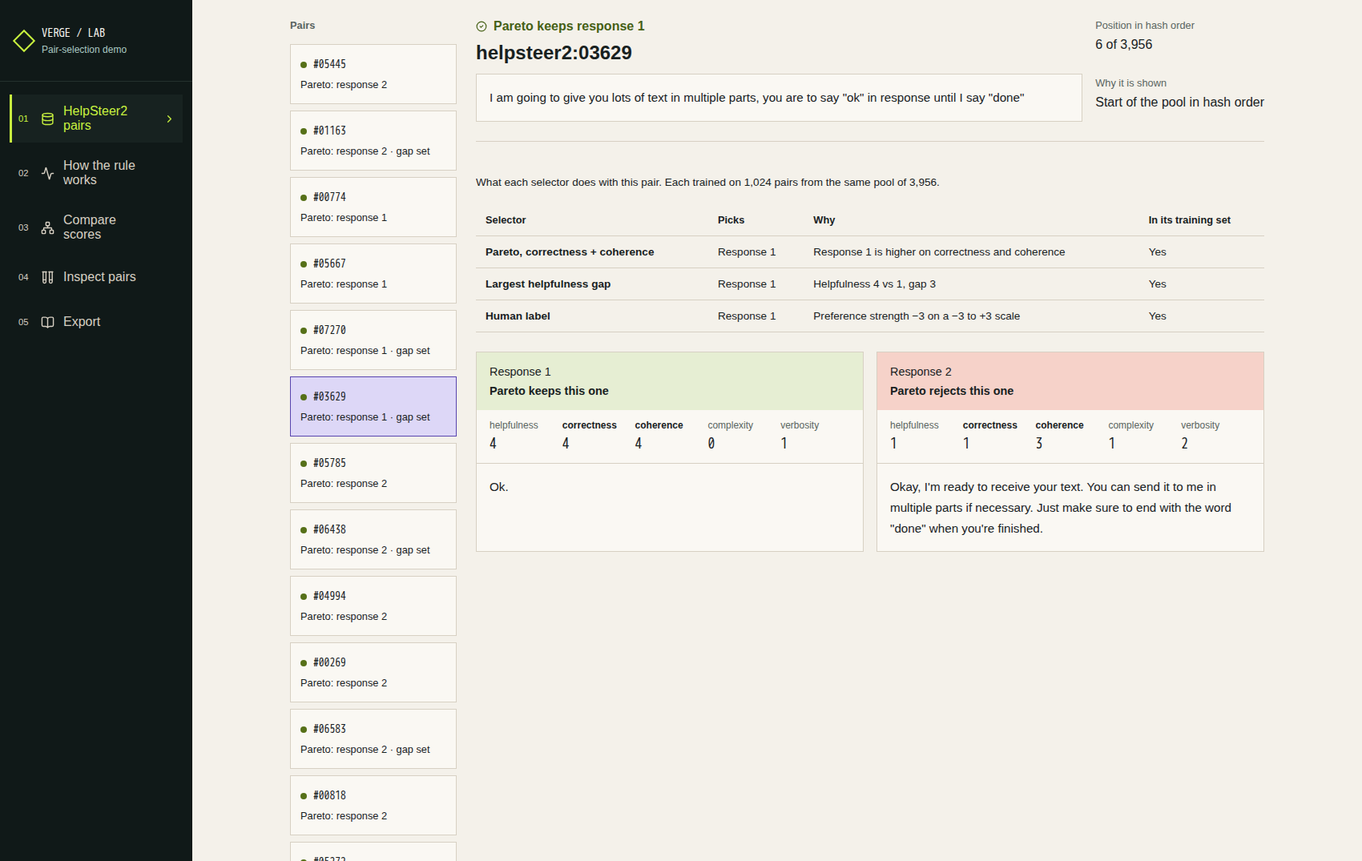
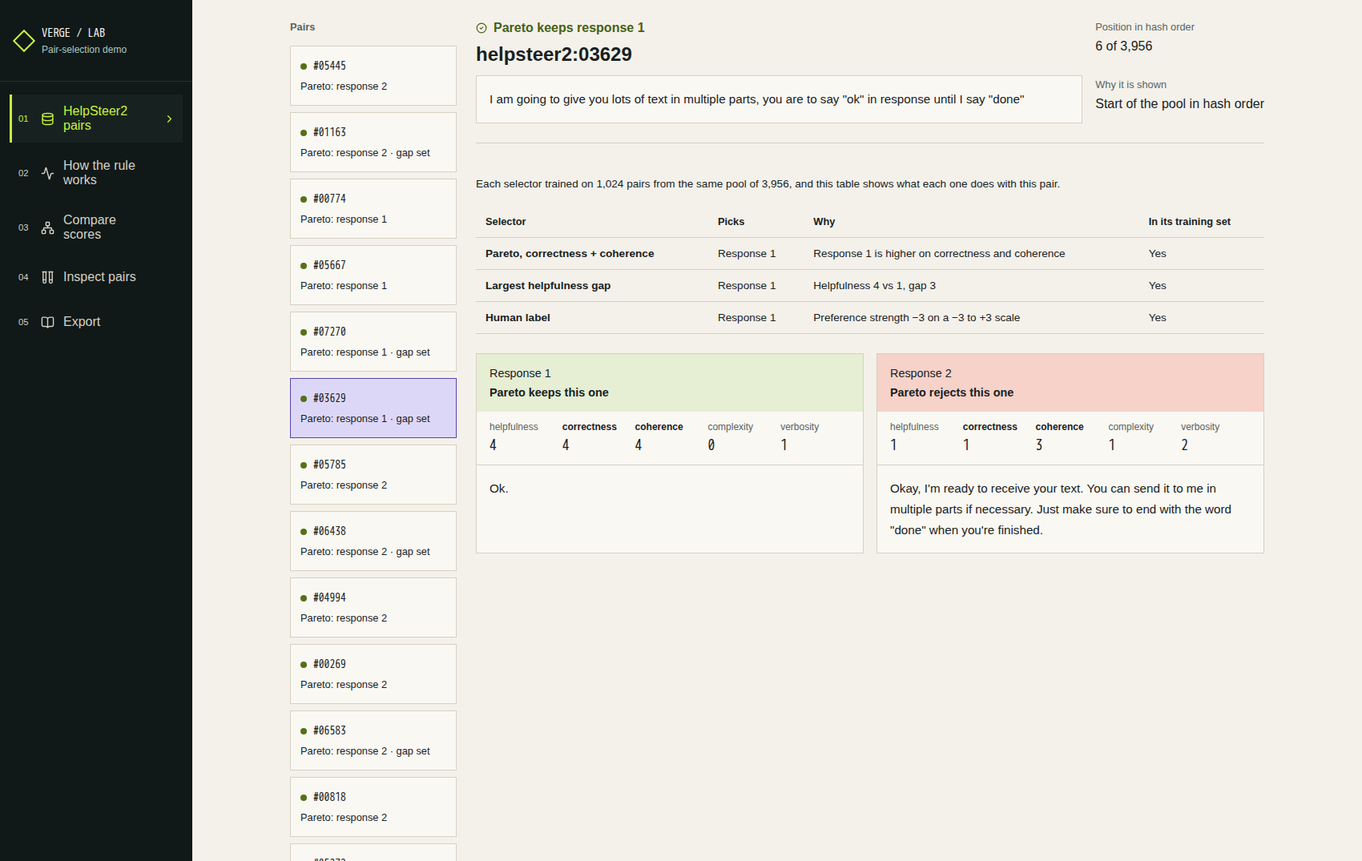
demo: run the view notes and captions as full sentences

diff --git a/src/views/LabViews.tsx b/src/views/LabViews.tsx
@@ -22,7 +22,7 @@ export function Overview({ run, onNavigate }: OverviewProps) {
           <div>
             <span className="eyebrow">Pair selection / examples</span>
             <h1>Pareto preference-pair selection</h1>
-            <p>I compare answers to the same prompt across several scores. A pair is selected when no adjusted score worsens and at least one improves beyond the threshold. When scores trade off, the selector abstains.</p>
+            <p>I compare answers to the same prompt across several scores, and a pair is selected when no adjusted score worsens and at least one improves beyond the threshold. When the scores trade off, the selector abstains instead.</p>
             <div className="hero-readout" role="list" aria-label="Counts computed from example inputs">
               <span role="listitem"><strong>{run.summary.candidateCount}</strong> example answers</span>
               <span role="listitem"><strong>{run.summary.defendedPairCount}</strong> selected pairs</span>
@@ -36,7 +36,7 @@ export function Overview({ run, onNavigate }: OverviewProps) {
         <header className="section-heading"><div><span className="eyebrow">The selection rule</span><h2 id="ledger-title">Selected pairs and abstentions</h2></div></header>
         <div className="ledger-grid">
           <article className="ledger-lead"><span>Selected from this example</span><strong>{formatPercent(defendedRate)}</strong><p>{run.summary.defendedPairCount} of {totalPairs} example comparisons pass the rule.</p><button type="button" className="text-action" onClick={() => onNavigate('pairs')}>Inspect a pair <ArrowRight size={15} aria-hidden="true" /></button></article>
-          <div className="selection-rule"><h3>Score margins</h3><p>Higher is better for “maximize”; lower is better for “minimize”. A heuristic penalty based on the supplied confidence reduces each advantage. Every adjusted margin must be nonnegative, and at least one must exceed the improvement threshold.</p><h3>Abstentions</h3><p>Tradeoffs, near ties, missing scores, low confidence and penalties that remove dominance leave a pair unresolved. The artifact labels selected pairs <code>defended</code> and abstentions <code>ambiguous</code>.</p><button type="button" className="text-action" onClick={() => onNavigate('topology')}>Compare example scores <ArrowRight size={15} aria-hidden="true" /></button></div>
+          <div className="selection-rule"><h3>Score margins</h3><p>Higher is better for “maximize” and lower is better for “minimize”, and a heuristic penalty based on the supplied confidence reduces each advantage. Every adjusted margin must be nonnegative, and at least one must exceed the improvement threshold.</p><h3>Abstentions</h3><p>Tradeoffs, near ties, missing scores, low confidence and penalties that remove dominance leave a pair unresolved, and the artifact labels selected pairs <code>defended</code> and abstentions <code>ambiguous</code>.</p><button type="button" className="text-action" onClick={() => onNavigate('topology')}>Compare example scores <ArrowRight size={15} aria-hidden="true" /></button></div>
         </div>
       </section>
 
@@ -74,7 +74,7 @@ export function RewardTopology({ run, filters, onFiltersChange }: FilteredViewPr
 
   return (
     <div className="view-stack">
-      <header className="view-hero"><div><span className="eyebrow">Example scores</span><h1>Compare answer scores</h1><p>An arrow points to the answer selected by the Pareto rule; a dashed line marks an abstention. Select an answer to read its scores. Graph positions are illustrative coordinates.</p></div></header>
+      <header className="view-hero"><div><span className="eyebrow">Example scores</span><h1>Compare answer scores</h1><p>An arrow points to the answer selected by the Pareto rule and a dashed line marks an abstention. Selecting an answer shows its scores, and the graph positions are only illustrative coordinates.</p></div></header>
       <EvidenceFilters run={run} filters={filters} onChange={onFiltersChange} resultCount={visibleCandidates.length} resultLabel={`candidates · ${visiblePairs.length} edges`} />
       <PartialOrderGraph run={run} candidates={visibleCandidates} pairs={visiblePairs} selectedCandidateId={effectiveSelectedCandidateId} onSelectCandidate={setSelectedCandidateId} />
     </div>
@@ -112,7 +112,7 @@ export function PairLab({ run, filters, onFiltersChange }: FilteredViewProps) {
 
   return (
     <div className="view-stack">
-      <header className="view-hero"><div><span className="eyebrow">Example pairs</span><h1>Inspect pair decisions</h1><p>Compare the answers, their scores and adjusted margins. The selector also checks confidence, missing scores and near ties before choosing a winner.</p></div><dl className="verdict-counts"><div><dt>Selected pairs</dt><dd>{run.summary.defendedPairCount}</dd></div><div><dt>Abstentions</dt><dd>{run.summary.ambiguousPairCount}</dd></div></dl></header>
+      <header className="view-hero"><div><span className="eyebrow">Example pairs</span><h1>Inspect pair decisions</h1><p>This view compares the answers, their scores and their adjusted margins, and the selector also checks confidence, missing scores and near ties before choosing a winner.</p></div><dl className="verdict-counts"><div><dt>Selected pairs</dt><dd>{run.summary.defendedPairCount}</dd></div><div><dt>Abstentions</dt><dd>{run.summary.ambiguousPairCount}</dd></div></dl></header>
       <EvidenceFilters run={run} filters={filters} onChange={onFiltersChange} resultCount={visiblePairs.length} resultLabel="comparisons" />
       {selectedPair ? (
         <div className={`pair-workbench ${drillDownOpen ? 'pair-workbench--detail' : 'pair-workbench--register'}`}>
@@ -144,8 +144,8 @@ export function PairLab({ run, filters, onFiltersChange }: FilteredViewProps) {
               </div>
             </section>
             <div className="pair-comparison"><PairChoice run={run} pair={selectedPair} role="chosen" /><PairChoice run={run} pair={selectedPair} role="rejected" /></div>
-            <section className="verdict-reason"><span className="eyebrow">Selection reason</span><h3>{selectedPair.reason}</h3><p>Margins compare {selectedPair.verdict === 'defended' ? 'the chosen answer with the rejected answer' : 'Candidate A with Candidate B; this order does not imply a preference'}. They account for score direction and a heuristic confidence penalty. Selection requires every margin ≥ 0 and at least one above the improvement threshold.</p><div className="margin-strip">{run.objectives.map((objective) => <div key={objective.id}><span>{objective.label}</span><strong>{selectedPair.margins[objective.id] === undefined ? 'not shared' : `${selectedPair.margins[objective.id] > 0 ? '+' : ''}${formatNumber(selectedPair.margins[objective.id], 4)}`}</strong></div>)}</div></section>
-            <section className="mutation-evidence"><header><span className="eyebrow">Example mutations</span><strong>{relevantMutations.length} linked examples</strong></header><p>These text edits come with example before/after scores. The selector computes score changes and verdict flips from them.</p>{relevantMutations.length === 0 ? <p className="empty-inline">No example mutation targets either candidate in this pair.</p> : relevantMutations.map((mutation) => <details key={mutation.id}><summary><span>{mutation.kind}</span><strong className={mutation.flipped ? 'coral-text' : undefined}>{mutation.flipped ? 'example verdict flipped' : 'example verdict stable'} · computed deltas</strong></summary><blockquote>{mutation.output}</blockquote><div className="mutation-deltas">{Object.entries(mutation.scoreDelta).map(([objectiveId, delta]) => <span key={objectiveId}>{objectiveId}: {delta > 0 ? '+' : ''}{formatNumber(delta)}</span>)}</div><p>{mutation.reason}</p></details>)}</section>
+            <section className="verdict-reason"><span className="eyebrow">Selection reason</span><h3>{selectedPair.reason}</h3><p>Margins compare {selectedPair.verdict === 'defended' ? 'the chosen answer with the rejected answer' : 'Candidate A with Candidate B, in an order that implies no preference,'} after accounting for score direction and a heuristic confidence penalty. Selection requires every margin ≥ 0 and at least one above the improvement threshold.</p><div className="margin-strip">{run.objectives.map((objective) => <div key={objective.id}><span>{objective.label}</span><strong>{selectedPair.margins[objective.id] === undefined ? 'not shared' : `${selectedPair.margins[objective.id] > 0 ? '+' : ''}${formatNumber(selectedPair.margins[objective.id], 4)}`}</strong></div>)}</div></section>
+            <section className="mutation-evidence"><header><span className="eyebrow">Example mutations</span><strong>{relevantMutations.length} linked examples</strong></header><p>These text edits come with example before/after scores, from which the selector computes score changes and verdict flips.</p>{relevantMutations.length === 0 ? <p className="empty-inline">No example mutation targets either candidate in this pair.</p> : relevantMutations.map((mutation) => <details key={mutation.id}><summary><span>{mutation.kind}</span><strong className={mutation.flipped ? 'coral-text' : undefined}>{mutation.flipped ? 'example verdict flipped' : 'example verdict stable'} · computed deltas</strong></summary><blockquote>{mutation.output}</blockquote><div className="mutation-deltas">{Object.entries(mutation.scoreDelta).map(([objectiveId, delta]) => <span key={objectiveId}>{objectiveId}: {delta > 0 ? '+' : ''}{formatNumber(delta)}</span>)}</div><p>{mutation.reason}</p></details>)}</section>
           </section>
         </div>
       ) : <div className="empty-state"><CircleAlert aria-hidden="true" /><h2>No comparisons match</h2><p>Clear the candidate search or widen the domain and verdict filters.</p></div>}
@@ -156,9 +156,9 @@ export function PairLab({ run, filters, onFiltersChange }: FilteredViewProps) {
 export function ExportView({ run }: SharedViewProps) {
   return (
     <div className="view-stack">
-      <header className="view-hero"><div><span className="eyebrow">Export</span><h1>Export and text edits</h1><p>The exporter writes selected pairs as DPO JSONL. Text edits show which pair decisions flip when an answer changes.</p></div></header>
-      <section className="method-note"><Beaker aria-hidden="true" /><div><span className="eyebrow">DPO export</span><h2>Export selected pairs</h2><p>The Python exporter recomputes each decision and writes selected pairs with their margins and score rationales. Abstentions are excluded.</p></div><dl><div><dt>Example eligible edges</dt><dd>{run.summary.defendedPairCount}</dd></div><div><dt>Example ambiguous edges</dt><dd>{run.summary.ambiguousPairCount}</dd></div></dl></section>
-      <section className="mutation-register" aria-labelledby="mutation-title"><header className="section-heading"><div><span className="eyebrow"><Microscope size={14} aria-hidden="true" />Text changes</span><h2 id="mutation-title">Example mutations</h2></div><span>{run.summary.mutationFlipCount} computed example flips</span></header><p>Each text edit has example before/after scores. The selector computes deltas and checks whether the pair decision changes.</p>{run.mutations.length === 0 ? <p className="empty-inline">No example mutations are included in this artifact.</p> : <div>{run.mutations.map((mutation) => <details key={mutation.id}><summary><span>{mutation.kind} · {shortId(mutation.sourceCandidateId)}</span><strong className={mutation.flipped ? 'coral-text' : undefined}>{mutation.flipped ? 'example verdict flipped' : 'example verdict stable'} / computed deltas</strong></summary><blockquote>{mutation.output}</blockquote><div className="mutation-deltas">{Object.entries(mutation.scoreDelta).map(([objectiveId, delta]) => <span key={objectiveId}>{objectiveId}: {delta > 0 ? '+' : ''}{formatNumber(delta)}</span>)}</div><p>{mutation.reason}</p></details>)}</div>}</section>
+      <header className="view-hero"><div><span className="eyebrow">Export</span><h1>Export and text edits</h1><p>The exporter writes selected pairs as DPO JSONL, and the text edits show which pair decisions flip when an answer changes.</p></div></header>
+      <section className="method-note"><Beaker aria-hidden="true" /><div><span className="eyebrow">DPO export</span><h2>Export selected pairs</h2><p>The Python exporter recomputes each decision and writes the selected pairs with their margins and score rationales, leaving out abstentions.</p></div><dl><div><dt>Example eligible edges</dt><dd>{run.summary.defendedPairCount}</dd></div><div><dt>Example ambiguous edges</dt><dd>{run.summary.ambiguousPairCount}</dd></div></dl></section>
+      <section className="mutation-register" aria-labelledby="mutation-title"><header className="section-heading"><div><span className="eyebrow"><Microscope size={14} aria-hidden="true" />Text changes</span><h2 id="mutation-title">Example mutations</h2></div><span>{run.summary.mutationFlipCount} computed example flips</span></header><p>Each text edit has example before/after scores, and the selector computes the deltas and checks whether the pair decision changes.</p>{run.mutations.length === 0 ? <p className="empty-inline">No example mutations are included in this artifact.</p> : <div>{run.mutations.map((mutation) => <details key={mutation.id}><summary><span>{mutation.kind} · {shortId(mutation.sourceCandidateId)}</span><strong className={mutation.flipped ? 'coral-text' : undefined}>{mutation.flipped ? 'example verdict flipped' : 'example verdict stable'} / computed deltas</strong></summary><blockquote>{mutation.output}</blockquote><div className="mutation-deltas">{Object.entries(mutation.scoreDelta).map(([objectiveId, delta]) => <span key={objectiveId}>{objectiveId}: {delta > 0 ? '+' : ''}{formatNumber(delta)}</span>)}</div><p>{mutation.reason}</p></details>)}</div>}</section>
     </div>
   )
 }

diff --git a/src/components/PartialOrderGraph.tsx b/src/components/PartialOrderGraph.tsx
@@ -248,7 +248,7 @@ export function PartialOrderGraph({ run, candidates, pairs, selectedCandidateId,
             </g>
           </svg>
         </div>
-        <p className="graph-note">Arrows point to the selected answer within each pair; dashed lines mark abstentions. Positions are illustrative coordinates. Use zoom buttons, then drag with a mouse to pan. Tab to an answer; arrow keys move between answers; Enter selects it. The table offers the same selection controls.</p>
+        <p className="graph-note">Arrows point to the selected answer within each pair and dashed lines mark abstentions, while the positions are illustrative coordinates. Zoom with the buttons and drag with a mouse to pan. You can also tab to an answer, move between answers with the arrow keys and press Enter to select one, or use the table, which offers the same selection controls.</p>
       </figure>
 
       {selectedCandidate ? (
@@ -270,7 +270,7 @@ export function PartialOrderGraph({ run, candidates, pairs, selectedCandidateId,
         <summary><span>Example answer table</span><small>{candidates.length} rows · score / confidence</small></summary>
         <section className="candidate-table-section" aria-labelledby="candidate-table-title">
           <header className="section-heading section-heading--compact"><div><span className="eyebrow">Score table</span><h2 id="candidate-table-title">Example scores and confidences</h2></div><span>{candidates.length} example rows</span></header>
-          <div className="table-wrap" tabIndex={0} role="region" aria-label="Example scores table; scroll horizontally for all objectives"><table className="data-table candidate-table"><caption>Scores, confidences, token counts and latencies are example inputs. Objective cells show score / confidence.</caption><thead><tr><th scope="col">Example candidate</th><th scope="col">Example domain</th>{run.objectives.map((objective) => <th scope="col" key={objective.id}>Illustrative {objective.label} score / confidence</th>)}<th scope="col">Illustrative tokens</th><th scope="col">Illustrative latency</th></tr></thead><tbody>
+          <div className="table-wrap" tabIndex={0} role="region" aria-label="Example scores table; scroll horizontally for all objectives"><table className="data-table candidate-table"><caption>Scores, confidences, token counts and latencies are example inputs, and each objective cell shows score / confidence.</caption><thead><tr><th scope="col">Example candidate</th><th scope="col">Example domain</th>{run.objectives.map((objective) => <th scope="col" key={objective.id}>Illustrative {objective.label} score / confidence</th>)}<th scope="col">Illustrative tokens</th><th scope="col">Illustrative latency</th></tr></thead><tbody>
             {candidates.map((candidate) => {
               const selected = candidate.id === selectedCandidateId
               return <tr key={candidate.id} className={selected ? 'is-selected' : undefined}><th scope="row" data-label="Example candidate"><button type="button" onClick={() => onSelectCandidate(candidate.id)} aria-pressed={selected}><span>{candidateLabel(run, candidate)}</span>{shortId(candidate.id)}</button></th><td data-label="Example domain">{promptFor(run, candidate.promptId)?.domain}</td>{run.objectives.map((objective) => { const score = candidate.scores[objective.id]; return <td data-label={`Illustrative ${objective.label} score / confidence`} key={objective.id}>{score ? `${formatNumber(score.value)} / ${formatPercent(score.confidence)}` : '—'}</td> })}<td data-label="Illustrative tokens">{candidate.tokens}</td><td data-label="Illustrative latency">{candidate.latencyMs} ms</td></tr>

diff --git a/src/views/RealPairs.tsx b/src/views/RealPairs.tsx
@@ -60,7 +60,7 @@ function Decisions({ data, pair }: { data: RealPairsArtifact; pair: RealPair }) 
   return (
     <div className="table-wrap">
       <table className="data-table decision-table">
-        <caption>What each selector does with this pair. Each trained on {integer.format(data.pool.trainingPairsPerSelector)} pairs from the same pool of {integer.format(data.pool.eligiblePairs)}.</caption>
+        <caption>Each selector trained on {integer.format(data.pool.trainingPairsPerSelector)} pairs from the same pool of {integer.format(data.pool.eligiblePairs)}, and this table shows what each one does with this pair.</caption>
         <thead><tr><th scope="col">Selector</th><th scope="col">Picks</th><th scope="col">Why</th><th scope="col">In its training set</th></tr></thead>
         <tbody>
           <tr><th scope="row">Pareto, {data.paretoAttributes.join(' + ')}</th><td>{pareto.pick === null ? 'Abstains' : `Response ${pareto.pick}`}</td><td>{pareto.reason}</td><td>{pareto.inTrainingSet ? 'Yes' : 'No'}</td></tr>
@@ -95,7 +95,7 @@ export function RealPairs() {
         <div>
           <span className="eyebrow">HelpSteer2 / real data</span>
           <h1>Training pairs from the experiment</h1>
-          <p>{pairs.length} HelpSteer2 prompts with two responses each, the annotators' 0–4 ratings and preference, and what each of the experiment's three selectors did with the pair. The Pareto rule keeps a pair when one response is at least as good on correctness and coherence and better on one of them.</p>
+          <p>Here are {pairs.length} HelpSteer2 prompts with two responses each, along with the annotators' 0–4 ratings and preference and what each of the experiment's three selectors did with the pair. The Pareto rule keeps a pair when one response is at least as good on correctness and coherence and better on one of them.</p>
           <p className="real-sample-note">The first {counts['hash-order']} open the experiment's {integer.format(data.pool.eligiblePairs)}-pair pool in hash order. Pareto passes {integer.format(data.pool.paretoPasses)} of the {integer.format(data.pool.eligiblePairs)}, so its rare cases are added from further down the same order: {counts['pareto-abstains']} abstentions and {counts['pareto-against-human']} pairs where it disagrees with the annotators.</p>
         </div>
         <dl className="verdict-counts"><div><dt>Pareto keeps</dt><dd>{pairs.length - abstains}</dd></div><div><dt>Pareto abstains</dt><dd>{abstains}</dd></div></dl>
@@ -134,7 +134,7 @@ export function RealPairs() {
           </section>
         </div>
       ) : null}
-      <p className="real-credit">Data: <a href={`https://huggingface.co/datasets/${data.dataset.huggingFace}`}>{data.dataset.name}</a>, {data.dataset.attribution}, <a href={data.dataset.licenseUrl}>{data.dataset.license}</a>. Texts and ratings are unchanged; the file is <code>public/data/helpsteer2-pairs.json</code>, written by <code>tools/export_demo_pairs.py</code>.</p>
+      <p className="real-credit">The data comes from <a href={`https://huggingface.co/datasets/${data.dataset.huggingFace}`}>{data.dataset.name}</a> ({data.dataset.attribution}) under <a href={data.dataset.licenseUrl}>{data.dataset.license}</a>, with texts and ratings unchanged, and the file is <code>public/data/helpsteer2-pairs.json</code>, written by <code>tools/export_demo_pairs.py</code>.</p>
     </div>
   )
 }

diff --git a/src/App.tsx b/src/App.tsx
@@ -54,14 +54,14 @@ function App() {
         {activeView === 'real' ? (
           <aside className="example-notice" aria-labelledby="example-notice-title">
             <strong id="example-notice-title">Real pairs from the DPO experiment</strong>
-            <p>These pairs, ratings and selector decisions come from the experiment's saved data. The other views use made-up scores to show the rule's confidence penalty, near-tie threshold and export. <a href="https://github.com/mottopanikeiku/verge-lab#readme">The results</a> are in the README.</p>
+            <p>These pairs, ratings and selector decisions come from the experiment's saved data, and <a href="https://github.com/mottopanikeiku/verge-lab#readme">the results</a> are in the README. The other views use made-up scores to show the rule's confidence penalty, near-tie threshold and export.</p>
             <details><summary>Where the pairs come from</summary><p>This view reads <code>data/helpsteer2-pairs.json</code>, exported by <code>tools/export_demo_pairs.py</code> from <code>results/day-dpo/data.json.gz</code> and <code>results/human-preferences/source.jsonl</code>. A test checks the file against those results and the saved pair table.</p></details>
           </aside>
         ) : (
           <aside className="example-notice" aria-labelledby="example-notice-title">
             <strong id="example-notice-title">Made-up example scores</strong>
-            <p>The scores in this view are made up; the selection decisions are computed from them. The first view has real HelpSteer2 pairs.</p>
-            <details><summary>Where the examples come from</summary><p>Every example view reads <code>artifacts/demo-run.json</code>, built from <code>examples/candidates.json</code>. Scores, confidences, token counts, latency and coordinates are authored inputs. The Python package computes pair decisions, margins, counts and mutation flips from them.</p></details>
+            <p>The scores in this view are made up and the selection decisions are computed from them, while the first view has real HelpSteer2 pairs.</p>
+            <details><summary>Where the examples come from</summary><p>Every example view reads <code>artifacts/demo-run.json</code>, built from <code>examples/candidates.json</code>. Its scores, confidences, token counts, latency and coordinates are authored inputs, and the Python package computes pair decisions, margins, counts and mutation flips from them.</p></details>
           </aside>
         )}
         <div className="bench-content">

diff --git a/docs/experiment.md b/docs/experiment.md
@@ -4,7 +4,7 @@
 
 HelpSteer2 ratings and HelpSteer2-Preference labels are joined by exact prompt and response hashes ([`tools/prepare_day_dpo.py`](../tools/prepare_day_dpo.py)). A pair is eligible if it is in the train split, single-turn, has a nonzero helpfulness gap and a nonzero human preference, and fits the length limits (prompt ≤ 4,000 characters, responses ≤ 8,000). That leaves 3,956 pairs, 3,719 of which pass the Pareto rule.
 
-Each training set takes 1,024 of them:
+Each training set takes 1,024 of them, chosen like this:
 
 | Selector | How the 1,024 are chosen | Chosen answer |
 | --- | --- | --- |
@@ -12,11 +12,11 @@ Each training set takes 1,024 of them:
 | Helpfulness gap | Largest absolute helpfulness gaps, same hash order for ties | Higher helpfulness |
 | Human reference | Eligible pairs, same hash order | Human-preferred answer |
 
-Pareto maximizes correctness and coherence (rescaled 0–1, confidence 1). Helpfulness is the baseline's signal. Complexity and verbosity are left out, since maximizing them rewards length whatever the prompt asks.
+Pareto maximizes correctness and coherence (rescaled 0–1, confidence 1), while helpfulness is the baseline's signal. Complexity and verbosity are left out, since maximizing them rewards length whatever the prompt asks.
 
-The 192 evaluation prompts are single-turn validation prompts picked by the same hash rule. None appears in any HelpSteer2 training rating row.
+The 192 evaluation prompts are single-turn validation prompts picked by the same hash rule, and none of them appears in any HelpSteer2 training rating row.
 
-The compact data (full texts for the 1,024-pair sets and the evaluation prompts) is in `results/day-dpo/data.json.gz`. To rebuild it from upstream:
+The compact data (full texts for the 1,024-pair sets and the evaluation prompts) is in `results/day-dpo/data.json.gz`, and these commands rebuild it from upstream:
 
 ```bash
 uv run python tools/compare_human_preferences.py --fetch --cache .cache/helpsteer2
@@ -42,17 +42,17 @@ Per-run settings, losses and dependency versions are in `results/day-dpo/trainin
 
 ## Evaluation
 
-Every adapter and the starting model answer the same 192 prompts, greedy decoding, at most 192 new tokens. The starting model answers once per prompt and is shared across seeds.
+Every adapter and the starting model answer the same 192 prompts with greedy decoding and at most 192 new tokens, and the starting model answers once per prompt, shared across seeds.
 
 The scorer is `OpenAssistant/reward-model-deberta-v3-large-v2`: one raw logit per prompt and answer, truncated to 512 tokens (117 of 1,920 inputs are cut). Its training sources (WebGPT comparisons, summarization feedback, synthetic instruction pairs, Anthropic HH) predate HelpSteer2.
 
-The headline number is the mean of `reward(Pareto) − reward(gap)` over prompts and matched seeds. The interval comes from 10,000 bootstrap draws that resample prompts and seeds independently (random seed 20261007), with percentile endpoints. An interval entirely above zero favors Pareto, entirely below favors gap, otherwise no verdict. No length adjustment is applied.
+The headline number is the mean of `reward(Pareto) − reward(gap)` over prompts and matched seeds, with no length adjustment. The interval comes from 10,000 bootstrap draws that resample prompts and seeds independently (random seed 20261007), with percentile endpoints. An interval entirely above zero favors Pareto and one entirely below favors gap, while anything else gives no verdict.
 
-`records.jsonl.gz` holds every generation with its reward. `summary.json` holds the aggregates. [`tools/analyze_day_dpo.py`](../tools/analyze_day_dpo.py) refuses missing, duplicate, nonfinite or unbalanced rows.
+`records.jsonl.gz` holds every generation with its reward and `summary.json` the aggregates, and [`tools/analyze_day_dpo.py`](../tools/analyze_day_dpo.py) refuses missing, duplicate, nonfinite or unbalanced rows.
 
 ## Retraining on Modal
 
-Needs a Modal account and paid L4 GPUs; full training uses up to three containers in parallel.
+Retraining needs a Modal account and paid L4 GPUs, and full training uses up to three containers in parallel.
 
 ```bash
 uvx --python 3.12 --from modal==1.5.3 modal run tools/day_dpo_modal.py --mode cache
@@ -61,7 +61,7 @@ uvx --python 3.12 --from modal==1.5.3 modal run tools/day_dpo_modal.py --mode sc
 uv run python tools/analyze_day_dpo.py --output-dir .cache/dpo
 ```
 
-Finished adapters, generations and scores are saved to a Modal volume before returning, so a rerun skips completed work. `--mode cleanup` deletes the downloaded model weights and keeps the adapters. `results/day-dpo/compute.json` lists every attempt and its cost bound.
+Finished adapters, generations and scores are saved to a Modal volume before returning, so a rerun skips completed work. `--mode cleanup` deletes the downloaded model weights but keeps the adapters, and `results/day-dpo/compute.json` lists every attempt and its cost bound.
 
 ## Selection rule
 
@@ -72,13 +72,13 @@ left_score - right_score
   - uncertainty_scale * ((1 - left_confidence) + (1 - right_confidence))
 ```
 
-Defaults: `uncertainty_scale = 0.05`, minimum confidence 0.8, `epsilon = 0.01` in each objective's own units. A pair is selected when every adjusted margin is nonnegative and at least one exceeds epsilon. The same test runs in the other direction. Anything else abstains: missing scores, low confidence, near ties, tradeoffs. With a nonzero penalty, an exact tie on any objective also blocks dominance.
+The defaults are `uncertainty_scale = 0.05`, minimum confidence 0.8 and `epsilon = 0.01` in each objective's own units. A pair is selected when every adjusted margin is nonnegative and at least one exceeds epsilon, and the same test runs in the other direction. Anything else abstains, whether the cause is missing scores, low confidence, near ties or tradeoffs, and with a nonzero penalty an exact tie on any objective also blocks dominance.
 
-[`export.py`](../verge_lab/export.py) recomputes every comparison before writing DPO JSONL and rejects artifacts whose stored decisions or margins disagree. The package runs no model; scores come from whatever you supply (the built-in checkers and scorers are phrase, JSON-field, regex and word-count checks).
+[`export.py`](../verge_lab/export.py) recomputes every comparison before writing DPO JSONL and rejects artifacts whose stored decisions or margins disagree. The package runs no model, so scores come from whatever you supply (the built-in checkers and scorers are phrase, JSON-field, regex and word-count checks).
 
 ## Agreement with human preference labels
 
-`results/human-preferences/` compares both selectors with HelpSteer2-Preference labels (`uv run python tools/compare_human_preferences.py`). At matched yield on validation data each selects 310 pairs; the human labels agree on 281 of 286 Pareto picks and 277 of 282 gap picks (human ties are excluded from the denominators, 24 and 28 of them).
+`results/human-preferences/` compares both selectors with HelpSteer2-Preference labels (`uv run python tools/compare_human_preferences.py`). At matched yield on validation data each selects 310 pairs, and the human labels agree on 281 of 286 Pareto picks and 277 of 282 gap picks, with human ties (24 and 28 of them) excluded from the denominators.
 
 ## UltraFeedback ratings on TruthfulQA
 
@@ -86,13 +86,13 @@ Defaults: `uncertainty_scale = 0.05`, minimum confidence 0.8, `epsilon = 0.01` i
 
 ## Browser demo and checks
 
-`artifacts/demo-run.json` is generated from `examples/candidates.json` with `uv run verge demo`. Its scores are made up; the pair decisions are computed. The Pages workflow builds with Vite under `/verge-lab/`. To preview a production build:
+`artifacts/demo-run.json` is generated from `examples/candidates.json` with `uv run verge demo`, and its scores are made up while the pair decisions are computed from them. The Pages workflow builds with Vite under `/verge-lab/`, and this previews a production build locally:
 
 ```bash
 npm ci && npm run build && npm run preview -- --host 127.0.0.1
 ```
 
-Checks:
+The tests, the linter and the demo build run with:
 
 ```bash
 uv run pytest

diff --git a/README.md b/README.md
@@ -1,8 +1,8 @@
 # Verge Lab
 
-Picks DPO preference pairs by Pareto dominance. A pair is kept only when one answer is at least as good on every score and clearly better on at least one; trade-offs, near ties and missing scores abstain.
+Verge Lab picks DPO preference pairs by Pareto dominance, keeping a pair only when one answer is at least as good on every score and clearly better on at least one, and abstaining on trade-offs, near ties and missing scores.
 
-I trained nine LoRA adapters on Qwen2.5-1.5B-Instruct to compare it with the simplest alternative, taking the pairs with the largest helpfulness gap. Pareto scored lower on all three seeds, 0.11 reward-model logits below gap on average (95% interval −0.26 to +0.03); the interval still includes a tie.
+I trained nine LoRA adapters on Qwen2.5-1.5B-Instruct to compare it with the simplest alternative, taking the pairs with the largest helpfulness gap. Pareto scored lower on all three seeds, 0.11 reward-model logits below gap on average, although the 95% interval (−0.26 to +0.03) still includes a tie.
 
 ![Mean reward per training set, and the Pareto minus gap difference](results/day-dpo/reward-difference.svg)
 
@@ -25,7 +25,7 @@ uv run verge analyze examples/candidates.json --output artifacts/my-run.json
 uv run verge export-dpo artifacts/my-run.json --output artifacts/my-run.dpo.jsonl
 ```
 
-You supply the scores; the package runs no model. The export is TRL-ready DPO JSONL. A confidence penalty can shrink the margins of uncertain scores (the experiment sets confidence to 1). [`verge_lab/pareto.py`](verge_lab/pareto.py) is about 200 lines.
+You supply the scores, since the package runs no model, and the export is TRL-ready DPO JSONL. A confidence penalty can shrink the margins of uncertain scores (the experiment sets confidence to 1), and [`verge_lab/pareto.py`](verge_lab/pareto.py), which implements the rule, is about 200 lines.
 
 To redo the analysis from the saved rewards (10,000 bootstrap resamples over prompts and seeds, plus the figure):
 
@@ -33,12 +33,12 @@ To redo the analysis from the saved rewards (10,000 bootstrap resamples over pro
 uv run python tools/analyze_day_dpo.py --output-dir .cache/dpo
 ```
 
-Retraining needs a Modal account. Data selection, training settings and the exact selection rule are in [docs/experiment.md](docs/experiment.md).
+Retraining needs a Modal account, and the data selection, training settings and exact selection rule are described in [docs/experiment.md](docs/experiment.md).
 
 ## Demo
 
 [![A HelpSteer2 training pair in the browser demo, with each selector's decision](docs/demo.png)](https://mottopanikeiku.github.io/verge-lab/)
 
-The [demo](https://mottopanikeiku.github.io/verge-lab/) opens on 40 real training pairs from the experiment: the prompt, both HelpSteer2 responses, the annotators' ratings, and what the Pareto, gap and human-label selectors did with each pair, including whether it made each 1,024-pair training set. The other views walk through the rule's confidence penalty, near-tie threshold and export on made-up scores. `npm ci && npm run dev` runs it locally; `uv run python tools/export_demo_pairs.py` rebuilds the pair file from the saved results.
+The [demo](https://mottopanikeiku.github.io/verge-lab/) opens on 40 real training pairs from the experiment: the prompt, both HelpSteer2 responses, the annotators' ratings, and what the Pareto, gap and human-label selectors did with each pair, including whether it made each 1,024-pair training set. The other views walk through the rule's confidence penalty, near-tie threshold and export on made-up scores. `npm ci && npm run dev` runs it locally, and `uv run python tools/export_demo_pairs.py` rebuilds the pair file from the saved results.
 
-Data: [HelpSteer2](https://arxiv.org/abs/2406.08673) and [HelpSteer2-Preference](https://arxiv.org/abs/2410.01257) (NVIDIA, CC-BY-4.0). Trained with the [DPO](https://arxiv.org/abs/2305.18290) loss on Qwen2.5 (Apache-2.0). The earlier rating study in `results/public-preferences/` uses [UltraFeedback](https://arxiv.org/abs/2310.01377) on [TruthfulQA](https://arxiv.org/abs/2109.07958). Code is MIT.
+The data is [HelpSteer2](https://arxiv.org/abs/2406.08673) and [HelpSteer2-Preference](https://arxiv.org/abs/2410.01257) (NVIDIA, CC-BY-4.0), and the adapters train with the [DPO](https://arxiv.org/abs/2305.18290) loss on Qwen2.5 (Apache-2.0). The earlier rating study in `results/public-preferences/` uses [UltraFeedback](https://arxiv.org/abs/2310.01377) on [TruthfulQA](https://arxiv.org/abs/2109.07958), and the code is MIT licensed.
